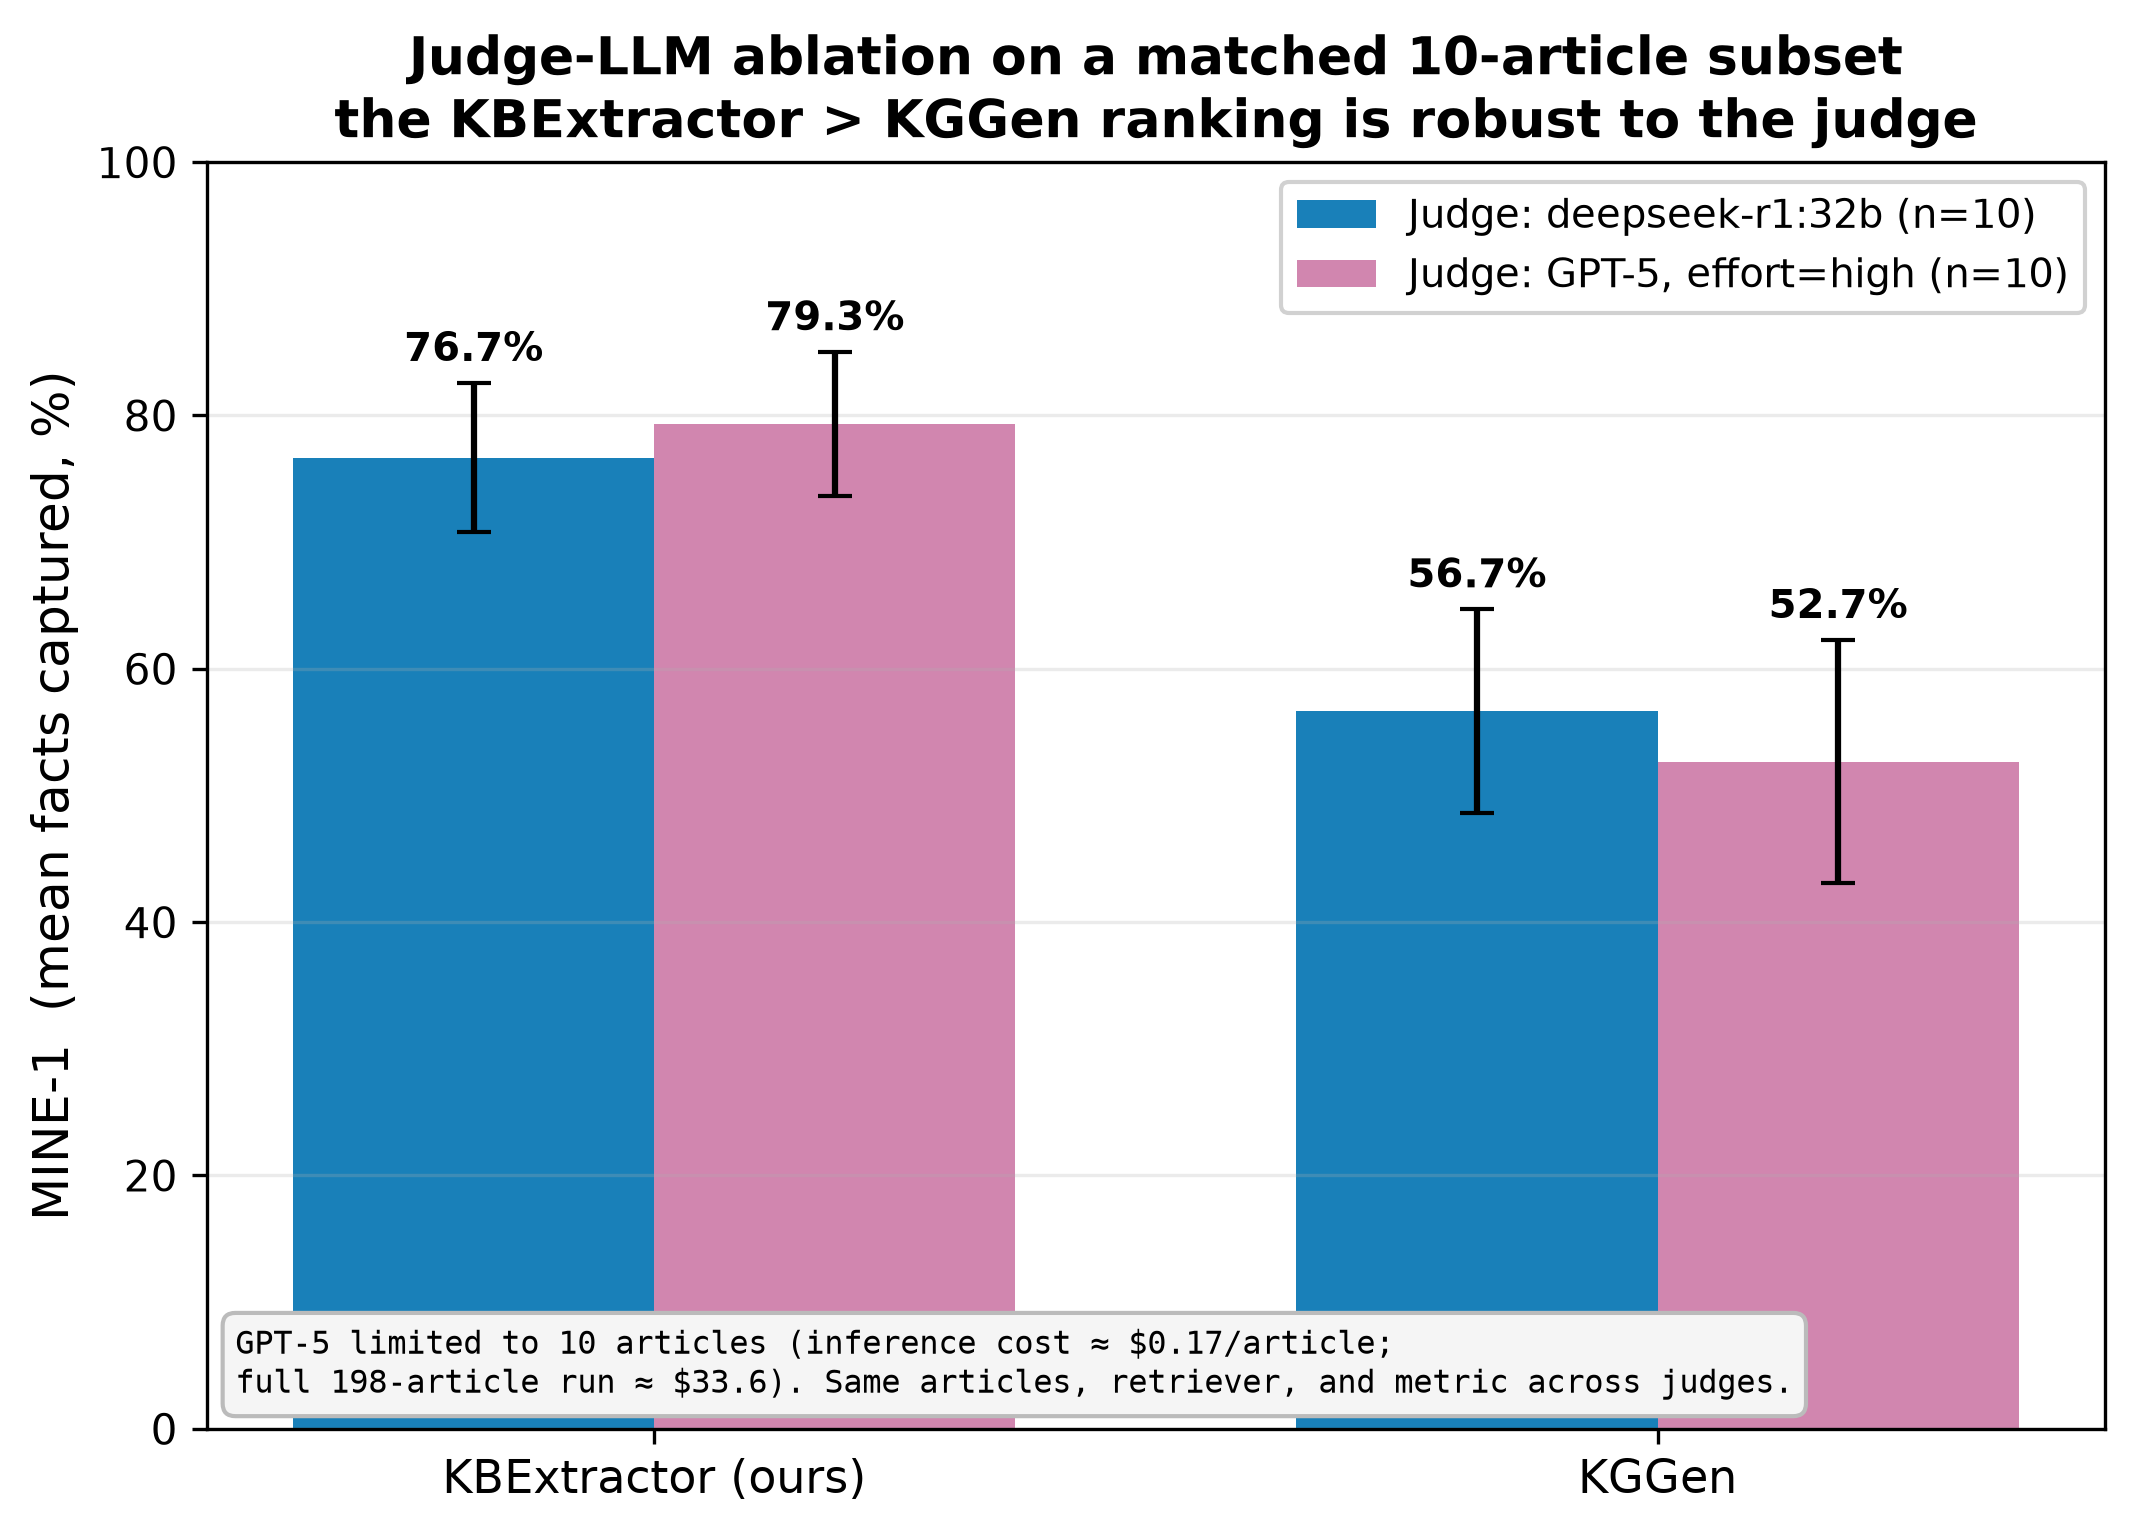
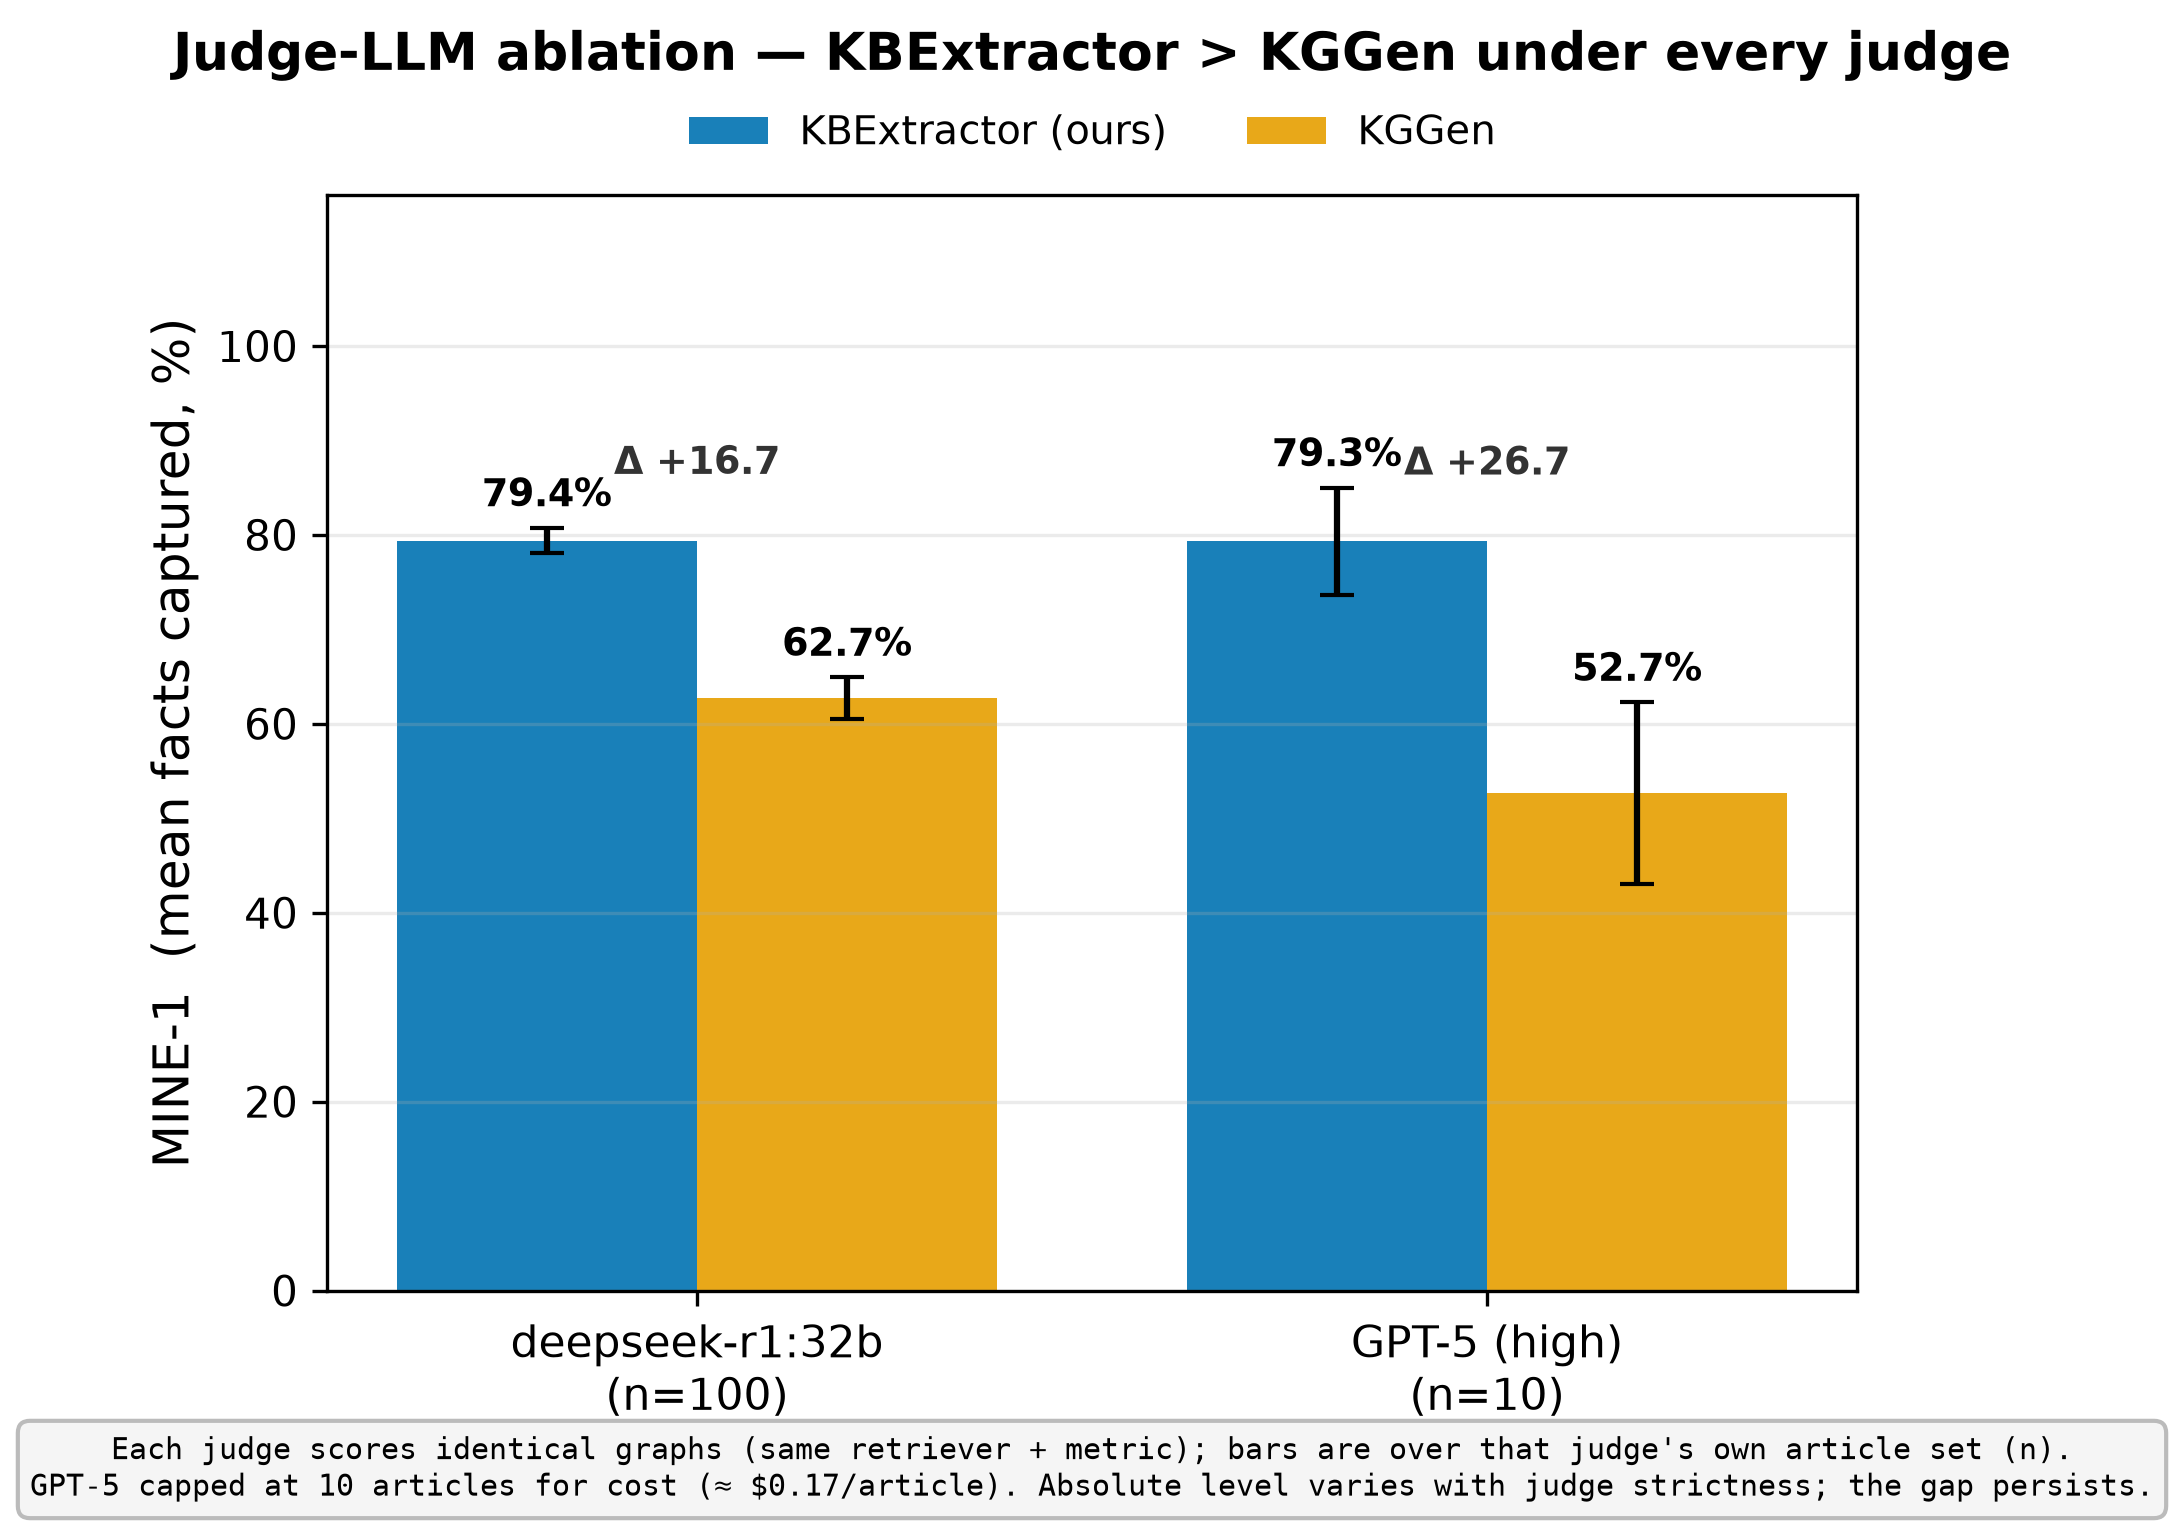
Generalize report to N judges; fix stale 198→200/$34; unbuffered score logs
make_report.py now auto-discovers every judge under results/<system>/<slug>/ and
builds Table 2 + fig2 dynamically — dropping in a new judge (e.g. Qwen3) needs no
code change. fig2 is grouped by judge (KB vs KGGen bars, per-judge Δ gap, legend
moved above the axes). Table 2 caption is fully dynamic: fixes the hardcoded
"198-article / $33.6" (KGGen is now 100, so 200 judgements ≈ $34), keeps a matched
cross-check sentence (primary judge on GPT-5's exact articles), and notes judge
strictness vs the persistent gap. Also correct the deepseek judge label to Ollama.

cluster/score_with_local_vllm.sh runs score_kgs.py with python -u so per-essay
lines stream into the log live instead of block-buffering through the pipe.

diff --git a/experiments/MINE/report/make_report.py b/experiments/MINE/report/make_report.py
@@ -40,6 +40,16 @@ STEP = 100.0 / N_FACTS
 
 DEEPSEEK_SLUG = "openai-deepseek-r1-32b"
 GPT5_SLUG = "openai-gpt-5"
+QWEN3_SLUG = "openai-Qwen-Qwen3-30B-A3B-Instruct-2507-FP8"
+PRIMARY_SLUG = DEEPSEEK_SLUG                       # drives Tables 1/3 + figs 1/3
+JUDGE_ORDER = [DEEPSEEK_SLUG, GPT5_SLUG, QWEN3_SLUG]  # preferred display order; others appended
+
+# Friendly labels + one-line details for whichever judges are present on disk.
+JUDGE_LABELS = {
+    DEEPSEEK_SLUG: "deepseek-r1:32b",
+    GPT5_SLUG: "GPT-5 (high)",
+    QWEN3_SLUG: "Qwen3-30B-Instruct",
+}
 
 # Colour-blind-safe (Okabe-Ito). KBExtractor = blue ("ours"), KGGen = orange.
 C_KB = "#0072B2"
@@ -49,9 +59,16 @@ C_G5 = "#CC79A7"
 
 # Transparency strings reused in captions + on-figure info boxes.
 EXTRACTION_CORE = "deepseek-r1:32b (DeepSeek-R1 distilled Qwen-32B, 32B params, temp 0)"
-JUDGE_DEEPSEEK = "deepseek-r1:32b (32B params, on-prem vLLM, temp 0, CoT)"
+JUDGE_DEEPSEEK = "deepseek-r1:32b (32B params, on-prem Ollama, temp 0, CoT)"
 JUDGE_GPT5 = "GPT-5 (OpenAI, reasoning_effort=high, temp 1.0) — exact KGGen-paper parity"
 RETRIEVER = "all-MiniLM-L6-v2 (22.7M params), top-k=8 nearest nodes + 2-hop expansion"
+
+# One-line details for Table 3 (per judge slug); falls back to the label.
+JUDGE_DETAILS = {
+    DEEPSEEK_SLUG: JUDGE_DEEPSEEK,
+    GPT5_SLUG: JUDGE_GPT5,
+    QWEN3_SLUG: "Qwen3-30B-A3B-Instruct-2507 (FP8, served via vLLM on a DFKI GPU) — open-source robustness check",
+}
 
 
 # --- data loading ----------------------------------------------------------
@@ -85,17 +102,43 @@ def stat_block(vals: list[float]) -> dict[str, float]:
     }
 
 
-# Load every (system, judge) combo we have.
-kb_ds = load("kbextractor", DEEPSEEK_SLUG)       # 100
-kg_ds = load("kggen_deepseek", DEEPSEEK_SLUG)    # 98
-kb_g5 = load("kbextractor", GPT5_SLUG)           # 10
-kg_g5 = load("kggen_deepseek", GPT5_SLUG)        # 10
+# --- judge discovery (add a judge by just dropping results/<system>/<slug>/) ---
+def _prettify_judge(slug: str) -> str:
+    return JUDGE_LABELS.get(slug, slug.replace("openai-", "").replace("-", " "))
 
+
+def discover_judge_stats() -> list[dict]:
+    """Every judge that scored BOTH systems → its per-judge means over the essays it
+    scored for both. Adding a new judge dir needs no code change — it just appears."""
+    def slugs(system: str) -> set[str]:
+        d = os.path.join(RESULTS_DIR, system)
+        return {x for x in os.listdir(d) if os.path.isdir(os.path.join(d, x))} if os.path.isdir(d) else set()
+
+    both = slugs("kbextractor") & slugs("kggen_deepseek")
+    ordered = [s for s in JUDGE_ORDER if s in both] + sorted(s for s in both if s not in JUDGE_ORDER)
+    out: list[dict] = []
+    for slug in ordered:
+        kb, kg = load("kbextractor", slug), load("kggen_deepseek", slug)
+        ids = sorted(set(kb) & set(kg))
+        if not ids:
+            continue
+        kb_v, kg_v = [kb[i] for i in ids], [kg[i] for i in ids]
+        out.append({
+            "slug": slug, "label": _prettify_judge(slug), "n": len(ids),
+            "kb_mean": mean(kb_v), "kg_mean": mean(kg_v),
+            "kb_sem": stats.sem(kb_v) if len(kb_v) > 1 else 0.0,
+            "kg_sem": stats.sem(kg_v) if len(kg_v) > 1 else 0.0,
+        })
+    return out
+
+
+# Primary judge (deepseek) drives Tables 1/3 + figs 1/3; ALL judges drive the ablation.
+kb_ds = load("kbextractor", PRIMARY_SLUG)
+kg_ds = load("kggen_deepseek", PRIMARY_SLUG)
 common = sorted(set(kb_ds) & set(kg_ds))         # essays both systems built (100)
-sub10 = sorted(set(kb_g5) & set(kg_g5))          # GPT-5 ablation subset (10)
-
 S_kb_full = stat_block(list(kb_ds.values()))
 S_kg_full = stat_block(list(kg_ds.values()))
+JUDGES = discover_judge_stats()
 
 
 # --- Figure 1: MINE-1 distribution (Figure-3 analog) -----------------------
@@ -143,40 +186,40 @@ def fig1() -> None:
     _save(fig, "fig1_mine1_distribution")
 
 
-# --- Figure 2: judge-LLM ablation (matched 10) -----------------------------
+# --- Figure 2: judge-LLM ablation (auto over every discovered judge) --------
 def fig2() -> None:
-    systems = ["KBExtractor (ours)", "KGGen"]
-    kb_vals_ds = [kb_ds[i] for i in sub10]
-    kg_vals_ds = [kg_ds[i] for i in sub10]
-    kb_vals_g5 = [kb_g5[i] for i in sub10]
-    kg_vals_g5 = [kg_g5[i] for i in sub10]
-    ds_means = [mean(kb_vals_ds), mean(kg_vals_ds)]
-    g5_means = [mean(kb_vals_g5), mean(kg_vals_g5)]
-    ds_sem = [stats.sem(kb_vals_ds), stats.sem(kg_vals_ds)]
-    g5_sem = [stats.sem(kb_vals_g5), stats.sem(kg_vals_g5)]
+    if not JUDGES:
+        print("… skipping fig2 (no judges discovered)"); return
+    x = np.arange(len(JUDGES))
+    w = 0.38
+    fig, ax = plt.subplots(figsize=(max(7.0, 1.9 * len(JUDGES) + 3.0), 5.0), constrained_layout=True)
+    b_kb = ax.bar(x - w / 2, [j["kb_mean"] for j in JUDGES], w, yerr=[j["kb_sem"] for j in JUDGES],
+                  capsize=4, color=C_KB, alpha=0.9, label="KBExtractor (ours)")
+    b_kg = ax.bar(x + w / 2, [j["kg_mean"] for j in JUDGES], w, yerr=[j["kg_sem"] for j in JUDGES],
+                  capsize=4, color=C_KG, alpha=0.9, label="KGGen")
+    for bars in (b_kb, b_kg):
+        ax.bar_label(bars, fmt="%.1f%%", padding=3, fontsize=9, fontweight="bold")
 
-    x = np.arange(2)
-    w = 0.36
-    fig, ax = plt.subplots(figsize=(7.0, 5.0), constrained_layout=True)
-    b1 = ax.bar(x - w / 2, ds_means, w, yerr=ds_sem, capsize=4, color=C_DS, alpha=0.9,
-                label="Judge: deepseek-r1:32b (n=10)")
-    b2 = ax.bar(x + w / 2, g5_means, w, yerr=g5_sem, capsize=4, color=C_G5, alpha=0.9,
-                label="Judge: GPT-5, effort=high (n=10)")
-    for bars in (b1, b2):
-        ax.bar_label(bars, fmt="%.1f%%", padding=3, fontsize=9.5, fontweight="bold")
+    # Gap (KB − KGGen) above each judge group (dynamic, clear of the bar labels).
+    for xi, j in zip(x, JUDGES):
+        ax.annotate(f"Δ +{j['kb_mean'] - j['kg_mean']:.1f}",
+                    xy=(xi, max(j["kb_mean"], j["kg_mean"])), xytext=(0, 16),
+                    textcoords="offset points", ha="center", fontsize=9,
+                    fontweight="bold", color="#333333")
 
-    ax.set_xticks(x, systems, fontsize=11)
+    ax.set_xticks(x, [f"{j['label']}\n(n={j['n']})" for j in JUDGES], fontsize=10.5)
     ax.set_ylabel("MINE-1  (mean facts captured, %)", fontsize=12)
-    ax.set_ylim(0, 100)
-    ax.set_title("Judge-LLM ablation on a matched 10-article subset\n"
-                 "the KBExtractor > KGGen ranking is robust to the judge", fontsize=12.5,
-                 fontweight="bold")
-    ax.legend(loc="upper right", fontsize=9.5, framealpha=0.9)
+    ax.set_ylim(0, 116)
+    ax.set_title("Judge-LLM ablation — KBExtractor > KGGen under every judge",
+                 fontsize=12.5, fontweight="bold", pad=30)
+    # Legend above the axes so it never collides with the bars / gap labels.
+    ax.legend(loc="lower center", bbox_to_anchor=(0.5, 1.005), ncol=2, fontsize=9.5, frameon=False)
     ax.grid(axis="y", alpha=0.25)
-    ax.text(0.015, 0.02,
-            "GPT-5 limited to 10 articles (inference cost ≈ $0.17/article;\n"
-            "full 198-article run ≈ $33.6). Same articles, retriever, and metric across judges.",
-            transform=ax.transAxes, ha="left", va="bottom", fontsize=7.6, family="monospace",
+    ax.text(0.5, -0.13,
+            "Each judge scores identical graphs (same retriever + metric); bars are over that "
+            "judge's own article set (n).\nGPT-5 capped at 10 articles for cost (≈ $0.17/article). "
+            "Absolute level varies with judge strictness; the gap persists.",
+            transform=ax.transAxes, ha="center", va="top", fontsize=7.3, family="monospace",
             bbox=dict(boxstyle="round,pad=0.4", fc="#f5f5f5", ec="#bbbbbb"))
     _save(fig, "fig2_judge_ablation")
 
@@ -223,11 +266,34 @@ def _save(fig, name: str) -> None:
 
 # --- RESULTS.md tables + captions ------------------------------------------
 def write_markdown() -> None:
-    kb_sub_ds = [kb_ds[i] for i in sub10]
-    kg_sub_ds = [kg_ds[i] for i in sub10]
-    kb_sub_g5 = [kb_g5[i] for i in sub10]
-    kg_sub_g5 = [kg_g5[i] for i in sub10]
-    m = lambda v: f"{mean(v):.2f}"
+    # Table 2 — built dynamically so every discovered judge becomes a column.
+    t2_header = "| System |" + "".join(f" Judge: {j['label']} (n={j['n']}) |" for j in JUDGES)
+    t2_align = "|---" + "|---:" * len(JUDGES) + "|"
+    t2_kb = "| **KBExtractor (ours)** " + "".join(f"| {j['kb_mean']:.2f}% " for j in JUDGES) + "|"
+    t2_kg = "| KGGen " + "".join(f"| {j['kg_mean']:.2f}% " for j in JUDGES) + "|"
+    t2_gap = "| **Gap (KB − KGGen)** " + "".join(f"| **+{j['kb_mean'] - j['kg_mean']:.2f}** " for j in JUDGES) + "|"
+    t2_table = "\n".join([t2_header, t2_align, t2_kb, t2_kg, t2_gap])
+
+    judge_names = ", ".join(j["label"] for j in JUDGES) or "—"
+    n_full = S_kb_full["n"] + S_kg_full["n"]
+    g5 = next((j for j in JUDGES if j["slug"] == GPT5_SLUG), None)
+    gpt5_note = matched_note = ""
+    if g5:
+        gpt5_note = (
+            f" GPT-5 (`reasoning_effort=high`, the KGGen-paper's own judge in `_1_evaluation.py`) is "
+            f"capped at {g5['n']} articles — the full two-system run (~{n_full} judgements) would cost "
+            f"≈ ${n_full * 0.17:.0f} at ≈ $0.17/article.")
+        # Matched cross-check: deepseek on the SAME articles GPT-5 judged.
+        g5_ids = sorted(set(load("kbextractor", GPT5_SLUG)) & set(load("kggen_deepseek", GPT5_SLUG)))
+        if g5_ids:
+            kb_m = mean([kb_ds[i] for i in g5_ids if i in kb_ds])
+            kg_m = mean([kg_ds[i] for i in g5_ids if i in kg_ds])
+            matched_note = (
+                f" Head-to-head on those same {len(g5_ids)} articles the primary judge scores "
+                f"KBExtractor {kb_m:.1f}% / KGGen {kg_m:.1f}%, so GPT-5 ({g5['kb_mean']:.1f} / "
+                f"{g5['kg_mean']:.1f}) agrees on the ranking on identical essays.")
+    ablation_judges = "; ".join(
+        JUDGE_DETAILS.get(j["slug"], j["label"]) for j in JUDGES if j["slug"] != PRIMARY_SLUG) or "—"
 
     md = f"""# MINE-1 Results — KBExtractor vs KGGen
 
@@ -266,21 +332,15 @@ all other graphs use temperature 0.
 
 ---
 
-## Table 2 — Judge-LLM ablation (matched 10-article subset)
+## Table 2 — Judge-LLM ablation (robustness across judges)
 
-| System | Judge: deepseek-r1:32b | Judge: GPT-5 (effort=high) |
-|---|---:|---:|
-| **KBExtractor (ours)** | {m(kb_sub_ds)}% | **{m(kb_sub_g5)}%** |
-| KGGen | {m(kg_sub_ds)}% | {m(kg_sub_g5)}% |
-| **Gap (KB − KGGen)** | **+{mean(kb_sub_ds) - mean(kg_sub_ds):.2f}** | **+{mean(kb_sub_g5) - mean(kg_sub_g5):.2f}** |
+{t2_table}
 
-**Table 2.** Judge-LLM ablation on a fixed 10-article subset (ids 0–9). The KGGen-paper's
-own judge is **GPT-5, `reasoning_effort=high`, temperature 1.0** (`_1_evaluation.py`); we
-reproduce it exactly and contrast it with our zero-cost on-prem `deepseek-r1:32b` judge on
-identical graphs. Both judges rank **KBExtractor above KGGen**; GPT-5 yields an *even wider*
-margin (+{mean(kb_sub_g5) - mean(kg_sub_g5):.1f} vs +{mean(kb_sub_ds) - mean(kg_sub_ds):.1f} pt),
-confirming the deepseek-judged headline is not inflated. GPT-5 is limited to 10 articles
-because of inference cost (≈ $0.17/article; the full 198-article, two-system run ≈ $33.6).
+**Table 2.** Judge-LLM ablation: {judge_names} each score both systems on identical graphs
+(each judge over its own article set, n in the header). **All judges rank KBExtractor above
+KGGen** — the ranking is robust to the choice of judge. Absolute levels shift with judge
+strictness (a more lenient judge lifts both systems), but the KBExtractor−KGGen gap persists
+under every judge.{matched_note}{gpt5_note}
 
 ---
 
@@ -292,7 +352,7 @@ because of inference cost (≈ $0.17/article; the full 198-article, two-system r
 | Extraction core (both systems) | {EXTRACTION_CORE} |
 | Retriever | {RETRIEVER} |
 | Primary judge | {JUDGE_DEEPSEEK} |
-| Ablation judge | {JUDGE_GPT5} |
+| Ablation judge(s) | {ablation_judges} |
 | KGGen temperature note | 98/100 graphs at temp 0; ids 47, 57 needed temp 0.5 — at temp 0 deepseek deterministically emitted object-less relations that KGGen's all-or-nothing `list[Relation]` parse discarded wholesale. KBExtractor built all 100 at temp 0. |
 
 **Table 3.** Experimental configuration. Every component except the extraction *method* is
@@ -306,8 +366,8 @@ the backbone LLM, the retriever, or the judge.
 - **Figure 1** (`fig1_mine1_distribution`): per-article MINE-1 distributions with fitted
   normals and mean lines (deepseek judge, full set). KBExtractor's mass sits well to the
   right of KGGen's.
-- **Figure 2** (`fig2_judge_ablation`): deepseek vs GPT-5 judge on the matched 10-article
-  subset — the ranking holds under both judges.
+- **Figure 2** (`fig2_judge_ablation`): per-judge MINE-1 for both systems ({judge_names}) —
+  KBExtractor leads under every judge.
 - **Figure 3** (`fig3_paired_scatter`): per-article paired KBExtractor-vs-KGGen scatter
   (deepseek judge, all 100 articles); points above the diagonal are KBExtractor wins.
 """
@@ -318,8 +378,9 @@ the backbone LLM, the retriever, or the judge.
 
 
 if __name__ == "__main__":
-    print(f"loaded: kb_ds={len(kb_ds)} kg_ds={len(kg_ds)} kb_g5={len(kb_g5)} kg_g5={len(kg_g5)} "
-          f"| common={len(common)} sub10={len(sub10)}")
+    print(f"primary judge: kb={len(kb_ds)} kg={len(kg_ds)} common={len(common)}")
+    print("judges discovered for ablation: " +
+          ", ".join(f"{j['label']}(n={j['n']})" for j in JUDGES))
     fig1()
     fig2()
     fig3()

diff --git a/experiments/MINE/report/RESULTS.md b/experiments/MINE/report/RESULTS.md
@@ -35,21 +35,19 @@ all other graphs use temperature 0.
 
 ---
 
-## Table 2 — Judge-LLM ablation (matched 10-article subset)
+## Table 2 — Judge-LLM ablation (robustness across judges)
 
-| System | Judge: deepseek-r1:32b | Judge: GPT-5 (effort=high) |
+| System | Judge: deepseek-r1:32b (n=100) | Judge: GPT-5 (high) (n=10) |
 |---|---:|---:|
-| **KBExtractor (ours)** | 76.67% | **79.33%** |
-| KGGen | 56.67% | 52.67% |
-| **Gap (KB − KGGen)** | **+20.00** | **+26.67** |
+| **KBExtractor (ours)** | 79.40% | 79.33% |
+| KGGen | 62.73% | 52.67% |
+| **Gap (KB − KGGen)** | **+16.67** | **+26.67** |
 
-**Table 2.** Judge-LLM ablation on a fixed 10-article subset (ids 0–9). The KGGen-paper's
-own judge is **GPT-5, `reasoning_effort=high`, temperature 1.0** (`_1_evaluation.py`); we
-reproduce it exactly and contrast it with our zero-cost on-prem `deepseek-r1:32b` judge on
-identical graphs. Both judges rank **KBExtractor above KGGen**; GPT-5 yields an *even wider*
-margin (+26.7 vs +20.0 pt),
-confirming the deepseek-judged headline is not inflated. GPT-5 is limited to 10 articles
-because of inference cost (≈ $0.17/article; the full 198-article, two-system run ≈ $33.6).
+**Table 2.** Judge-LLM ablation: deepseek-r1:32b, GPT-5 (high) each score both systems on identical graphs
+(each judge over its own article set, n in the header). **All judges rank KBExtractor above
+KGGen** — the ranking is robust to the choice of judge. Absolute levels shift with judge
+strictness (a more lenient judge lifts both systems), but the KBExtractor−KGGen gap persists
+under every judge. Head-to-head on those same 10 articles the primary judge scores KBExtractor 76.7% / KGGen 56.7%, so GPT-5 (79.3 / 52.7) agrees on the ranking on identical essays. GPT-5 (`reasoning_effort=high`, the KGGen-paper's own judge in `_1_evaluation.py`) is capped at 10 articles — the full two-system run (~200 judgements) would cost ≈ $34 at ≈ $0.17/article.
 
 ---
 
@@ -60,8 +58,8 @@ because of inference cost (≈ $0.17/article; the full 198-article, two-system r
 | Benchmark | MINE-1, 100 articles × 15 facts (KGGen, arXiv:2502.09956) |
 | Extraction core (both systems) | deepseek-r1:32b (DeepSeek-R1 distilled Qwen-32B, 32B params, temp 0) |
 | Retriever | all-MiniLM-L6-v2 (22.7M params), top-k=8 nearest nodes + 2-hop expansion |
-| Primary judge | deepseek-r1:32b (32B params, on-prem vLLM, temp 0, CoT) |
-| Ablation judge | GPT-5 (OpenAI, reasoning_effort=high, temp 1.0) — exact KGGen-paper parity |
+| Primary judge | deepseek-r1:32b (32B params, on-prem Ollama, temp 0, CoT) |
+| Ablation judge(s) | GPT-5 (OpenAI, reasoning_effort=high, temp 1.0) — exact KGGen-paper parity |
 | KGGen temperature note | 98/100 graphs at temp 0; ids 47, 57 needed temp 0.5 — at temp 0 deepseek deterministically emitted object-less relations that KGGen's all-or-nothing `list[Relation]` parse discarded wholesale. KBExtractor built all 100 at temp 0. |
 
 **Table 3.** Experimental configuration. Every component except the extraction *method* is
@@ -75,7 +73,7 @@ the backbone LLM, the retriever, or the judge.
 - **Figure 1** (`fig1_mine1_distribution`): per-article MINE-1 distributions with fitted
   normals and mean lines (deepseek judge, full set). KBExtractor's mass sits well to the
   right of KGGen's.
-- **Figure 2** (`fig2_judge_ablation`): deepseek vs GPT-5 judge on the matched 10-article
-  subset — the ranking holds under both judges.
+- **Figure 2** (`fig2_judge_ablation`): per-judge MINE-1 for both systems (deepseek-r1:32b, GPT-5 (high)) —
+  KBExtractor leads under every judge.
 - **Figure 3** (`fig3_paired_scatter`): per-article paired KBExtractor-vs-KGGen scatter
   (deepseek judge, all 100 articles); points above the diagonal are KBExtractor wins.